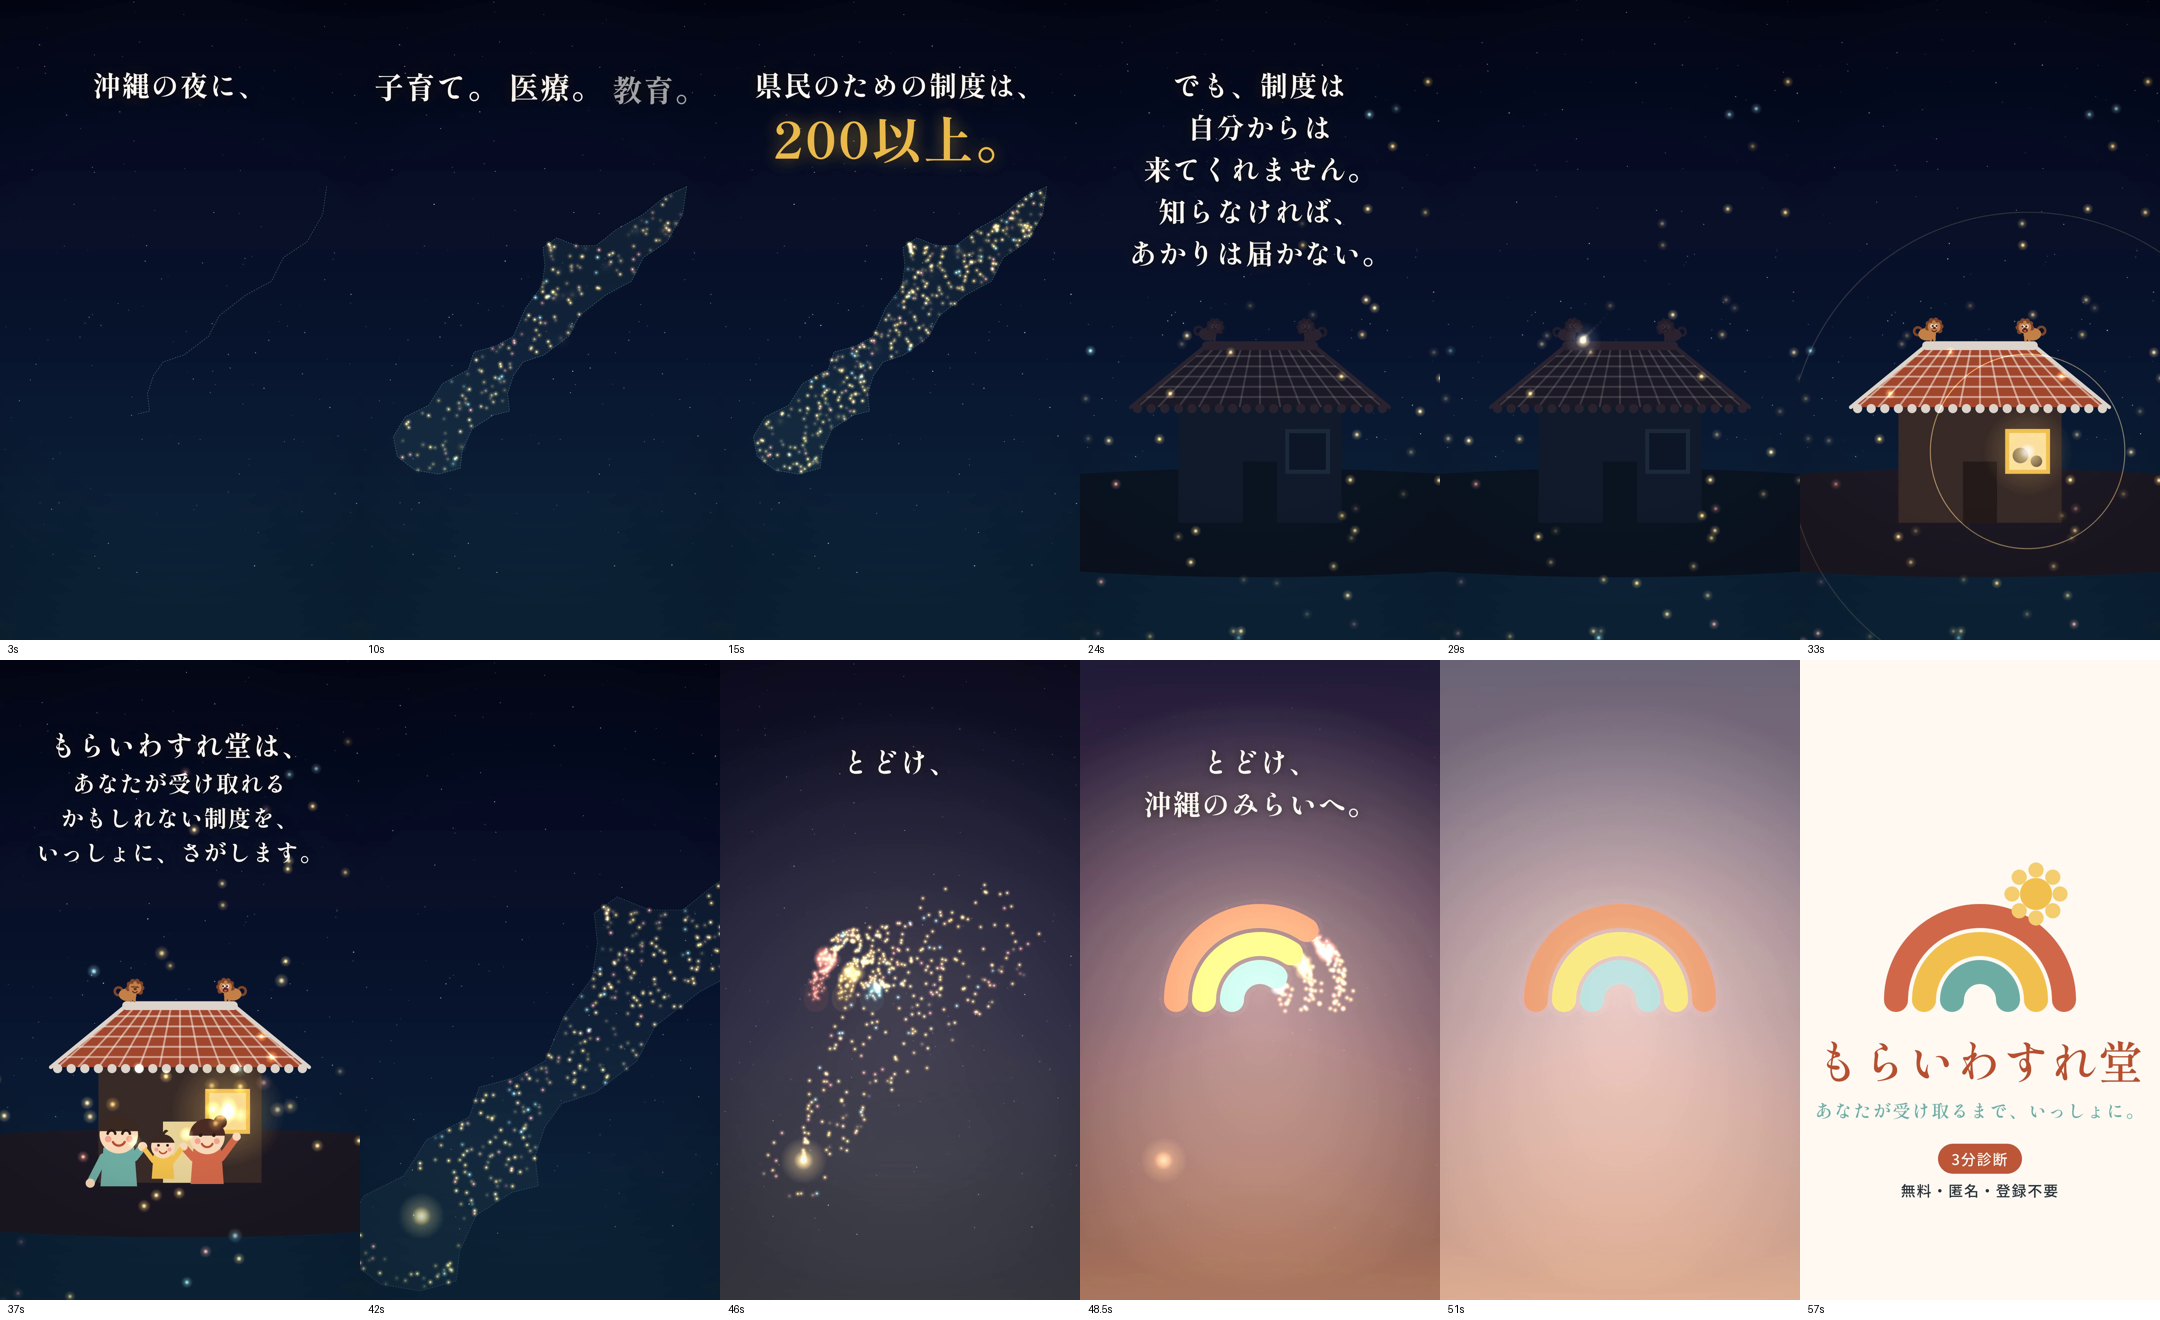
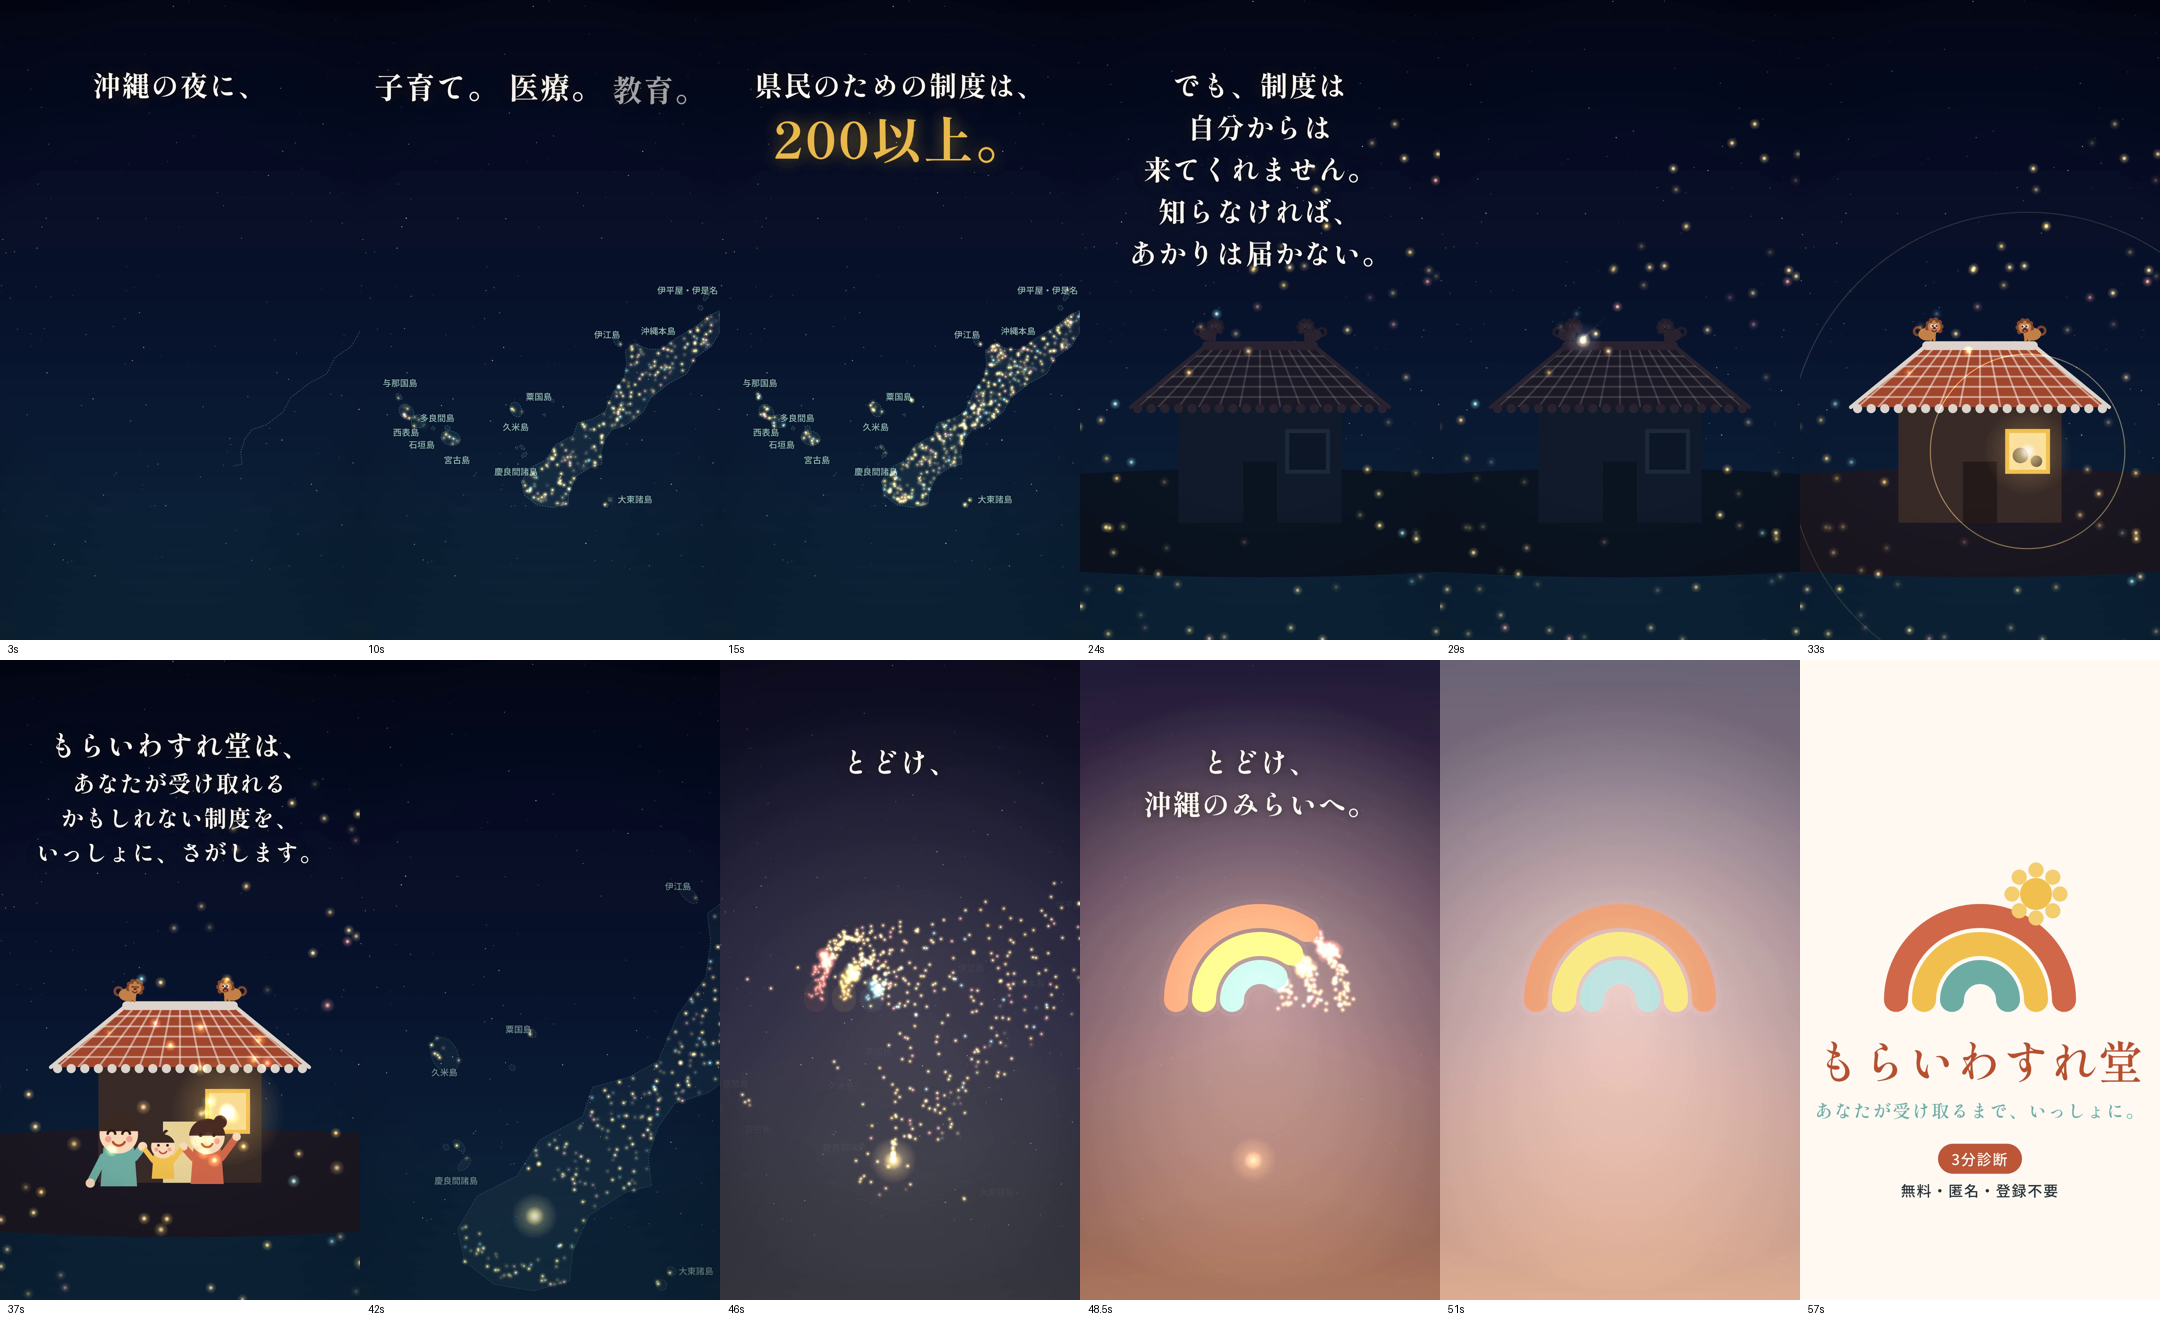
feat: 「あかりの島」の地図に沖縄の離島(17島・名前つき)を追加
- 伊平屋・伊是名、伊江島、粟国・渡名喜、久米島、慶良間諸島、宮古(伊良部・多良間)、石垣・西表・与那国、大東諸島を様式化して配置(距離は寄せて描く)
- 本島の輪郭が描き終わったあと北から順に浮かび上がり、島の名前を固定サイズの文字で添える(ズーム時は本島と一緒に消える)
- あかりは離島にも灯る(粒子520個に増量)。全島が収まるようカメラの枠取りを再計算
- Noto Sans JP のサブセットに島名の字を追加

Claude-Session: https://claude.ai/code/session_01EUU57gd7iz7iCvLZHfCprB

diff --git a/video/anime-60s/index.html b/video/anime-60s/index.html
@@ -169,7 +169,32 @@ const ISLAND = [[330,40],[390,120],[420,230],[400,330],[430,420],[400,520],[385,
 const TILT=45*Math.PI/180, PIV={x:300,y:750};
 function rot(x,y){const dx=x-PIV.x,dy=y-PIV.y,c=Math.cos(TILT),sn=Math.sin(TILT);return [PIV.x+dx*c-dy*sn, PIV.y+dx*sn+dy*c]}
 for(let i=0;i<ISLAND.length;i++)ISLAND[i]=rot(ISLAND[i][0],ISLAND[i][1]);
-const BB={x0:Math.min(...ISLAND.map(p=>p[0])),x1:Math.max(...ISLAND.map(p=>p[0])),y0:Math.min(...ISLAND.map(p=>p[1])),y1:Math.max(...ISLAND.map(p=>p[1]))};
+// 離島(様式化・距離は寄せて配置。cx,cy:中心 rx,ry:半径 a:向き(度) label:名前 lx,ly:ラベルの位置ずらし)
+const REMOTE_SRC=[
+  {cx:212,cy:52, rx:12,ry:40,a:-20,label:'伊平屋・伊是名',lx:-150,ly:-10},
+  {cx:238,cy:128,rx:14,ry:12,a:0},
+  {cx:62, cy:560,rx:26,ry:12,a:0,  label:'伊江島',lx:-70,ly:-24},
+  {cx:36, cy:1010,rx:10,ry:8,a:0, label:'粟国島',lx:-80,ly:-12},
+  {cx:58, cy:1092,rx:7, ry:6, a:0},
+  {cx:-64,cy:1176,rx:40,ry:28,a:20,label:'久米島',lx:-40,ly:52},
+  {cx:132,cy:1312,rx:9, ry:18,a:0, label:'慶良間諸島',lx:-90,ly:50},
+  {cx:96, cy:1292,rx:16,ry:8, a:0},
+  {cx:78, cy:1314,rx:7, ry:6, a:0},
+  {cx:-200,cy:1520,rx:50,ry:36,a:-30,label:'宮古島',lx:-20,ly:66},
+  {cx:-248,cy:1494,rx:15,ry:11,a:-30},
+  {cx:-300,cy:1548,rx:9, ry:8, a:0,  label:'多良間島',lx:-40,ly:-30},
+  {cx:-378,cy:1576,rx:34,ry:38,a:30, label:'石垣島',lx:-30,ly:70},
+  {cx:-458,cy:1586,rx:42,ry:34,a:0,  label:'西表島',lx:-40,ly:62},
+  {cx:-540,cy:1556,rx:20,ry:10,a:0,  label:'与那国島',lx:-50,ly:-40},
+  {cx:610,cy:1160,rx:10,ry:9, a:0,  label:'大東諸島',lx:22,ly:0},
+  {cx:616,cy:1196,rx:12,ry:11,a:0},
+];
+const REMOTE=REMOTE_SRC.map(o=>{const [x,y]=rot(o.cx,o.cy);return {...o,x,y,ang:o.a*Math.PI/180+TILT}});
+function inRemote(x,y){for(const o of REMOTE){const dx=x-o.x,dy=y-o.y,c=Math.cos(-o.ang),sn=Math.sin(-o.ang);
+  const u=dx*c-dy*sn,v=dx*sn+dy*c;if((u*u)/(o.rx*o.rx)+(v*v)/(o.ry*o.ry)<=1)return true}return false}
+const allX=[...ISLAND.map(p=>p[0]),...REMOTE.flatMap(o=>[o.x-o.rx-o.ry,o.x+o.rx+o.ry])];
+const allY=[...ISLAND.map(p=>p[1]),...REMOTE.flatMap(o=>[o.y-o.rx-o.ry,o.y+o.rx+o.ry])];
+const BB={x0:Math.min(...allX),x1:Math.max(...allX),y0:Math.min(...allY),y1:Math.max(...allY)};
 function inPoly(x,y){let inside=false;for(let i=0,j=ISLAND.length-1;i<ISLAND.length;j=i++){
   const [xi,yi]=ISLAND[i],[xj,yj]=ISLAND[j];
   if(((yi>y)!==(yj>y))&&(x<(xj-xi)*(y-yi)/(yj-yi)+xi))inside=!inside}return inside}
@@ -182,8 +207,8 @@ const KIDX = -5;                                    // 子どもの立ち位置(
 
 // ---------- カメラ ----------
 // S1/S2: 島全体を、上の文字帯(〜560px)を避けて収める
-const Z1=Math.min(880/(BB.x1-BB.x0), 1240/(BB.y1-BB.y0));
-const CAM1={x:(BB.x0+BB.x1)/2, y:BB.y0+(400/Z1), z:Z1};
+const Z1=Math.min(1000/(BB.x1-BB.x0), 1200/(BB.y1-BB.y0));
+const CAM1={x:(BB.x0+BB.x1)/2-(55/Z1), y:(BB.y0+BB.y1)/2-(230/Z1), z:Z1};   // 文字帯を避けて、島々を画面の下寄りの中央に
 // S3/S4: 家に寄る(家は画面中央よりやや下)
 const CAM3={x:HOUSE.x, y:HOUSE.y-64, z:6};
 // S5/S6: 引き。家が画面下(y≒1500)、虹が上
@@ -221,9 +246,9 @@ const COLS = [
   {c:'#F5CE6E',w:.56},{c:'#F2C14E',w:.24},{c:'#E58A6E',w:.12},{c:'#8FD0C4',w:.08}];
 function pickCol(u){let a=0;for(const c of COLS){a+=c.w;if(u<a)return c.c}return COLS[0].c}
 const lights=[];
-while(lights.length<470){
+while(lights.length<520){
   const x=BB.x0+rnd()*(BB.x1-BB.x0),y=BB.y0+rnd()*(BB.y1-BB.y0);
-  if(!inPoly(x,y))continue;
+  if(!inPoly(x,y)&&!inRemote(x,y))continue;
   const d=Math.hypot(x-HOUSE.x,y-HOUSE.y);
   if(d<28*HS)continue;
   lights.push({x,y,u:rnd(),v:rnd(),ph:rnd()*6.283,w:1.2+rnd()*2.2,col:pickCol(rnd()),near:d<100,type:'isl'});
@@ -421,7 +446,18 @@ function draw(t){
      // 島の内側をごく薄く(輪郭が閉じてから)
      if(prog>=1){g.beginPath();ISLAND.forEach((p,i)=>i?g.lineTo(p[0],p[1]):g.moveTo(p[0],p[1]));g.closePath();
        g.globalAlpha=.10*smooth((t-6.3)/1.5)*vis;g.fillStyle='#6FAEA4';g.fill()}
-     g.restore()}}
+     // 離島(本島が描き終わってから、北から順に浮かび上がる)
+     REMOTE.forEach((o,i)=>{const a=smooth((t-5.6-i*.12)/.9)*vis;if(a<=0)return;
+       g.beginPath();g.ellipse(o.x,o.y,o.rx,o.ry,o.ang,0,6.283);
+       g.globalAlpha=.10*a;g.fillStyle='#6FAEA4';g.fill();
+       g.strokeStyle='#6FAEA4';g.lineWidth=1.6/cam.z;g.setLineDash([3/cam.z,5/cam.z]);g.globalAlpha=.6*a;g.stroke();g.setLineDash([])});
+     g.restore();
+     // 島の名前(画面座標・大きさ固定)
+     {const la=smooth((t-6.6)/1.4)*vis;if(la>0){g.font="500 26px 'Noto Sans JP',sans-serif";g.textBaseline='middle';g.textAlign='left';
+       const put=(wx,wy,txt,lx,ly)=>{const sp=toS({x:wx,y:wy},cam);g.globalAlpha=la*.85;g.fillStyle='#A9DAD0';
+         g.shadowColor='rgba(0,0,0,.7)';g.shadowBlur=8;g.fillText(txt,sp.x+lx,sp.y+ly);g.shadowBlur=0};
+       REMOTE.forEach(o=>{if(o.label)put(o.x,o.y,o.label,o.lx,o.ly)});
+       const c=rot(300,700);put(c[0],c[1],'沖縄本島',30,-190)}}}}
 
   // 家(ズームしたときだけ現れる)+ 家族
   {const ha=clamp((cam.z-2)/2.5);
